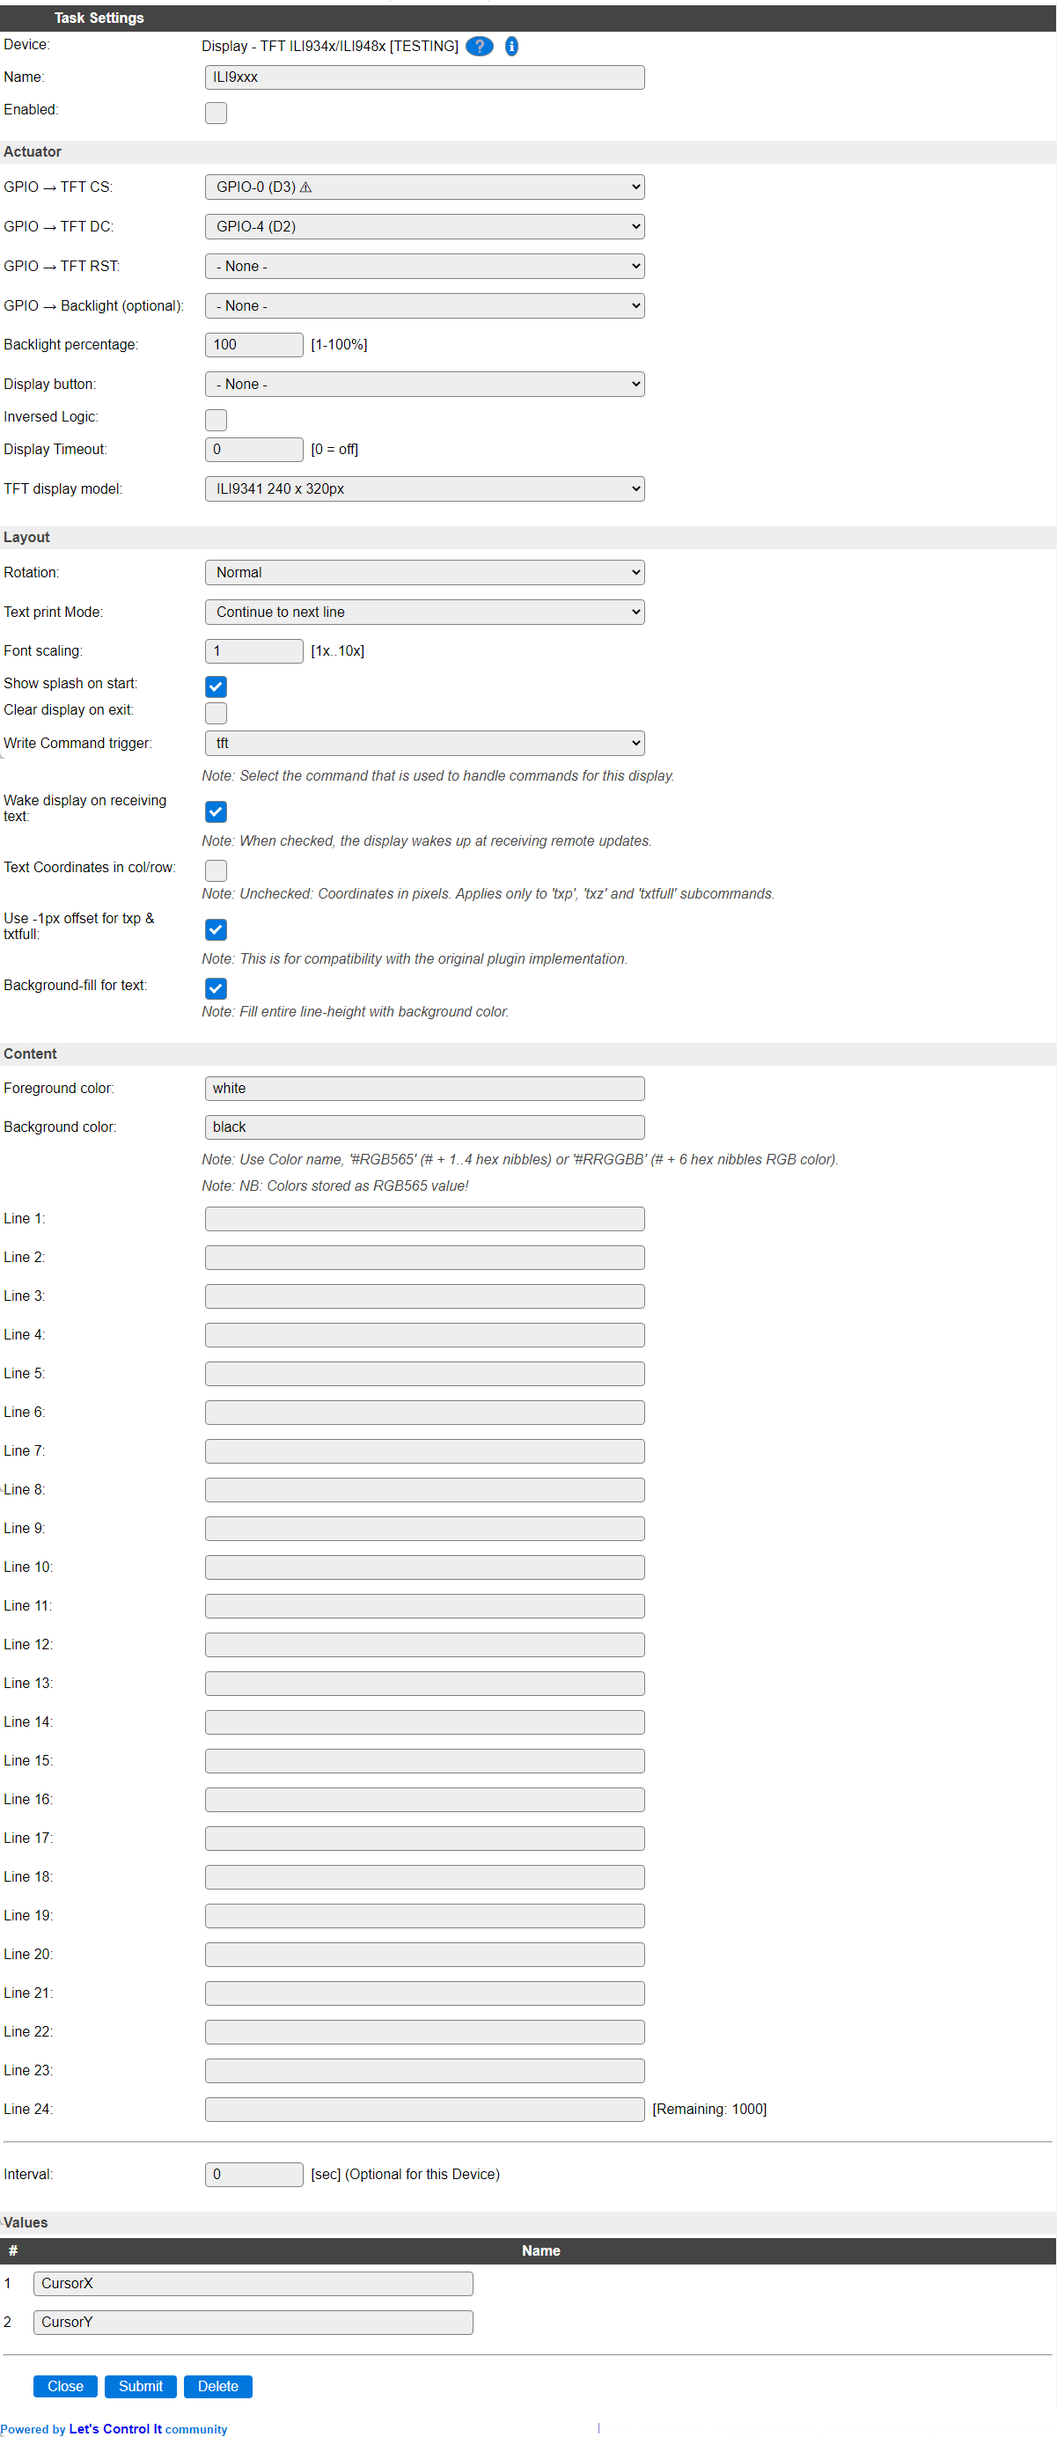
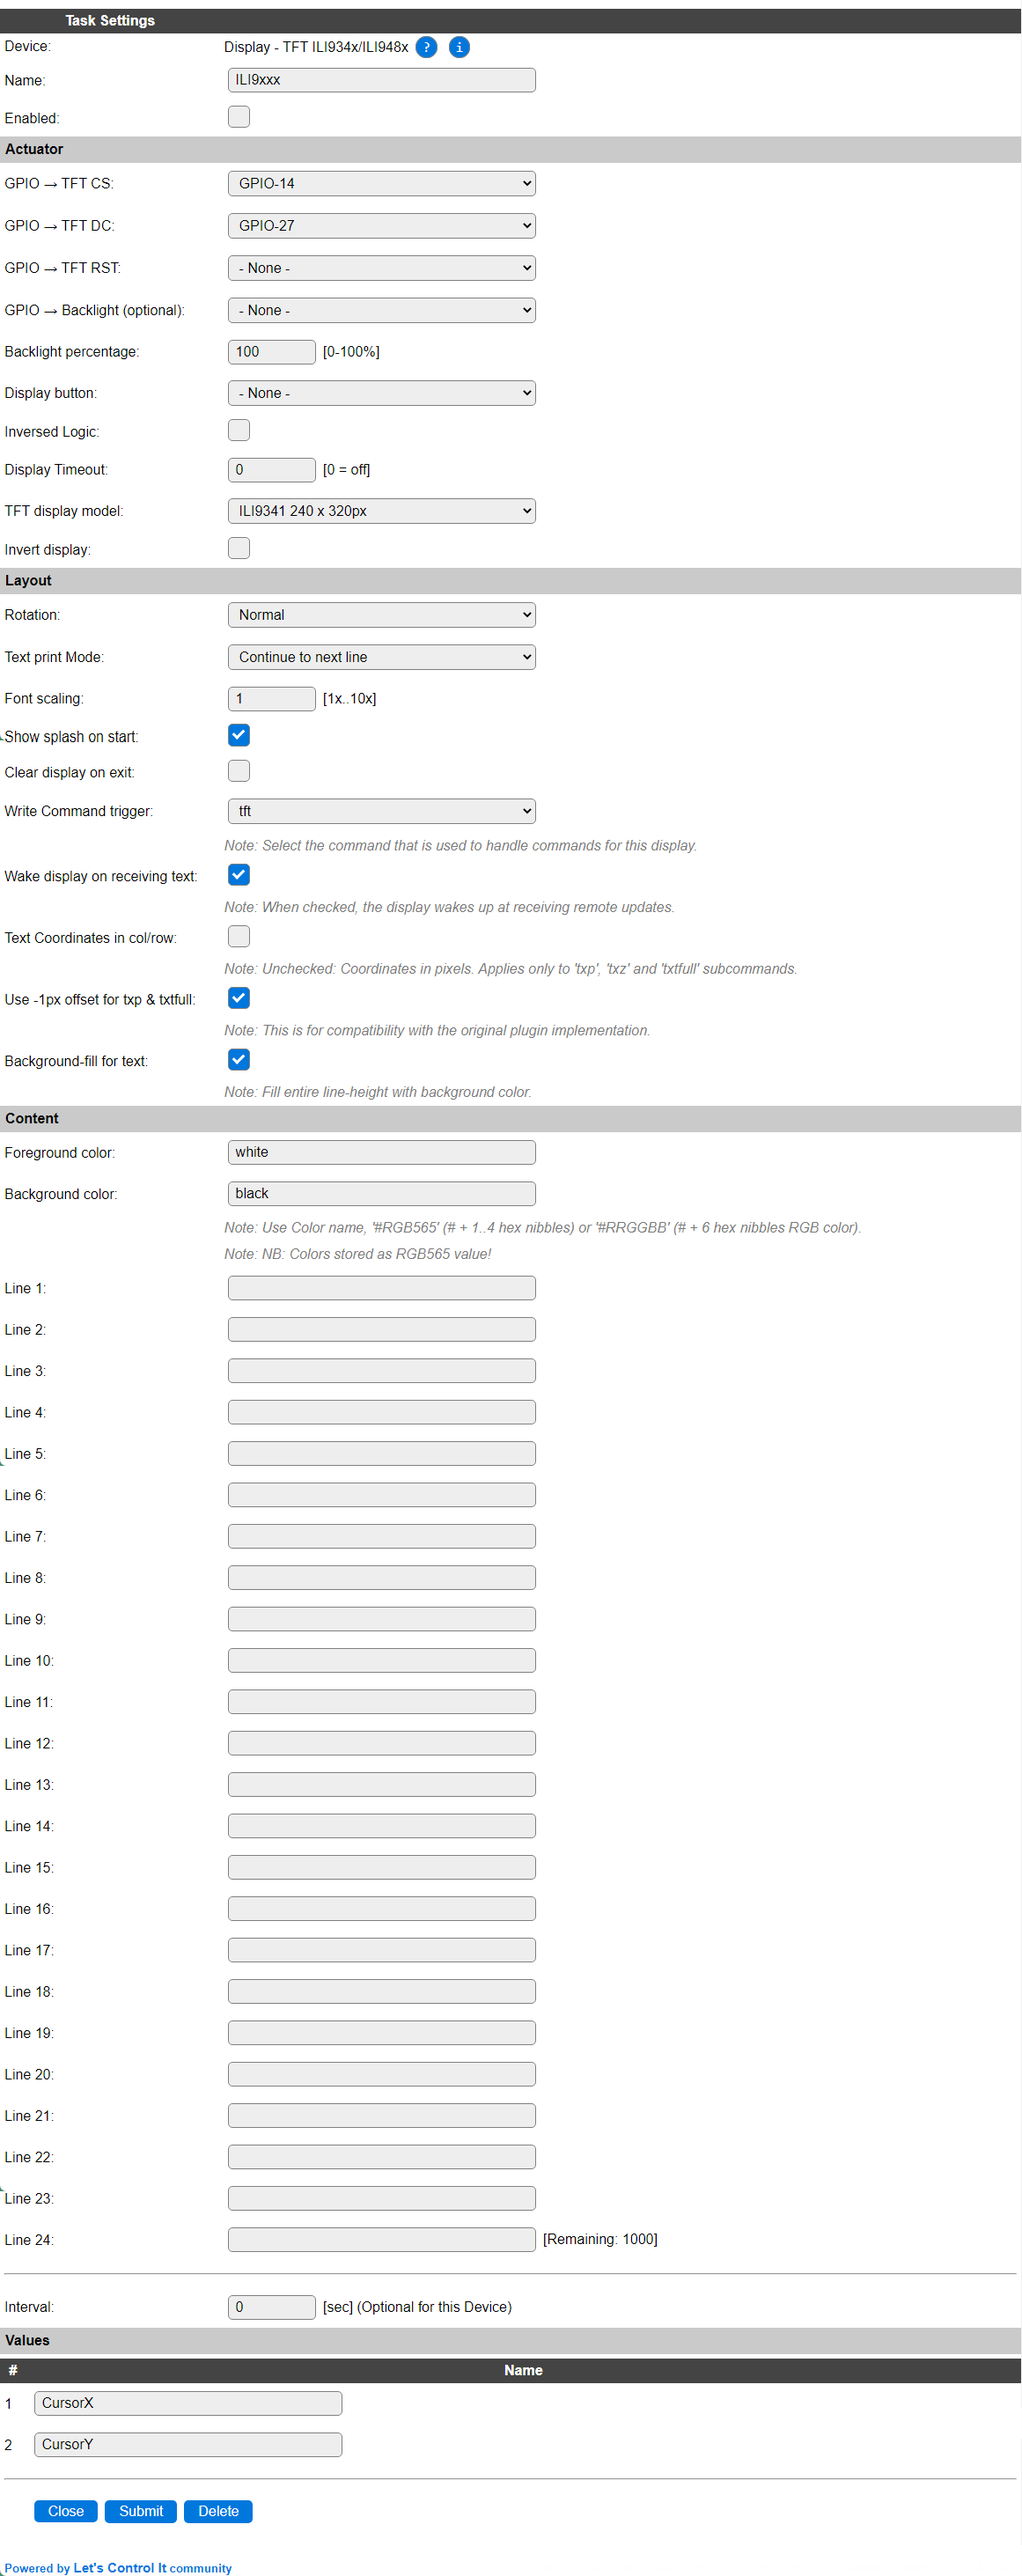
[P095] Add Invert display option for  foreground / background color swap

Changed region(s): [[0.0, 0.0, 1.0, 0.528], [0.0, 0.4969, 1.0, 1.0], [0.5891, 0.8386, 0.6512, 0.8696]]

diff --git a/src/src/PluginStructs/P095_data_struct.h b/src/src/PluginStructs/P095_data_struct.h
@@ -38,6 +38,7 @@
 # define P095_CONFIG_FLAG_COMPAT_P095   4               // Flag: Compatibility -1 offset like original P095
 # define P095_CONFIG_FLAG_BACK_FILL     5               // Flag: Background fill when printing text
 # define P095_CONFIG_FLAG_SHOW_SPLASH   6               // Flag: Show splash during startup of the plugin
+# define P095_CONFIG_FLAG_INVERTDISPLAY 7               // Flag: Swap foreground and background colors/invertDisplay() (M5Stack Core2)
 # define P095_CONFIG_FLAG_CMD_TRIGGER   8               // Flag-offset to store 4 bits for Command trigger, uses bits 8, 9, 10 and 11
 # define P095_CONFIG_FLAG_FONTSCALE     12              // Flag-offset to store 4 bits for Font scaling, uses bits 12, 13, 14 and 15
 # define P095_CONFIG_FLAG_MODE          16              // Flag-offset to store 4 bits for Mode, uses bits 16, 17, 18 and 19
@@ -51,6 +52,7 @@
 # define P095_CONFIG_FLAG_GET_MODE          (get4BitFromUL(P095_CONFIG_FLAGS, P095_CONFIG_FLAG_MODE))
 # define P095_CONFIG_FLAG_GET_TYPE          (get4BitFromUL(P095_CONFIG_FLAGS, P095_CONFIG_FLAG_TYPE))
 # define P095_CONFIG_FLAG_GET_SHOW_SPLASH   (!bitRead(P095_CONFIG_FLAGS, P095_CONFIG_FLAG_SHOW_SPLASH)) // Inverted setting, default on
+# define P095_CONFIG_FLAG_GET_INVERTDISPLAY (bitRead(P095_CONFIG_FLAGS, P095_CONFIG_FLAG_INVERTDISPLAY))
 
 # ifdef ESP32
 

diff --git a/src/src/PluginStructs/P095_data_struct.cpp b/src/src/PluginStructs/P095_data_struct.cpp
@@ -175,6 +175,7 @@ bool P095_data_struct::plugin_init(struct EventStruct *event) {
       gfxHelper->setRotation(_rotation);
       gfxHelper->setColumnRowMode(bitRead(P095_CONFIG_FLAGS, P095_CONFIG_FLAG_USE_COL_ROW));
       gfxHelper->setTxtfullCompensation(!bitRead(P095_CONFIG_FLAGS, P095_CONFIG_FLAG_COMPAT_P095) ? 0 : 1);
+      gfxHelper->invertDisplay(P095_CONFIG_FLAG_GET_INVERTDISPLAY);
     }
     updateFontMetrics();
     tft->fillScreen(_bgcolor);             // fill screen with background color

diff --git a/docs/source/Plugin/P095.rst b/docs/source/Plugin/P095.rst
@@ -84,6 +84,7 @@ Actuator
 * **Inversed Logic** When checked, reverses the pin-state action of the **Display button** gpio. This allows an external circuit, f.e. an IR sensor, that may provide a *high* signal when activated, to wake the display.
 * **Display Timeout** Select the timeout in seconds to turn off the display after the last update or wake-up. Only used if the **Display button** is *also* configured.
 * **TFT Display model** Select the hardware model that is connected. Currently there are only preset resolutions available.
+* **Invert display** Default value for Invert display, some displays have foreground and background colors swapped (f.e. M5Stack Core2 using ILI9342C), this option is applied at plugin initialization.
 
 Available options:
 
